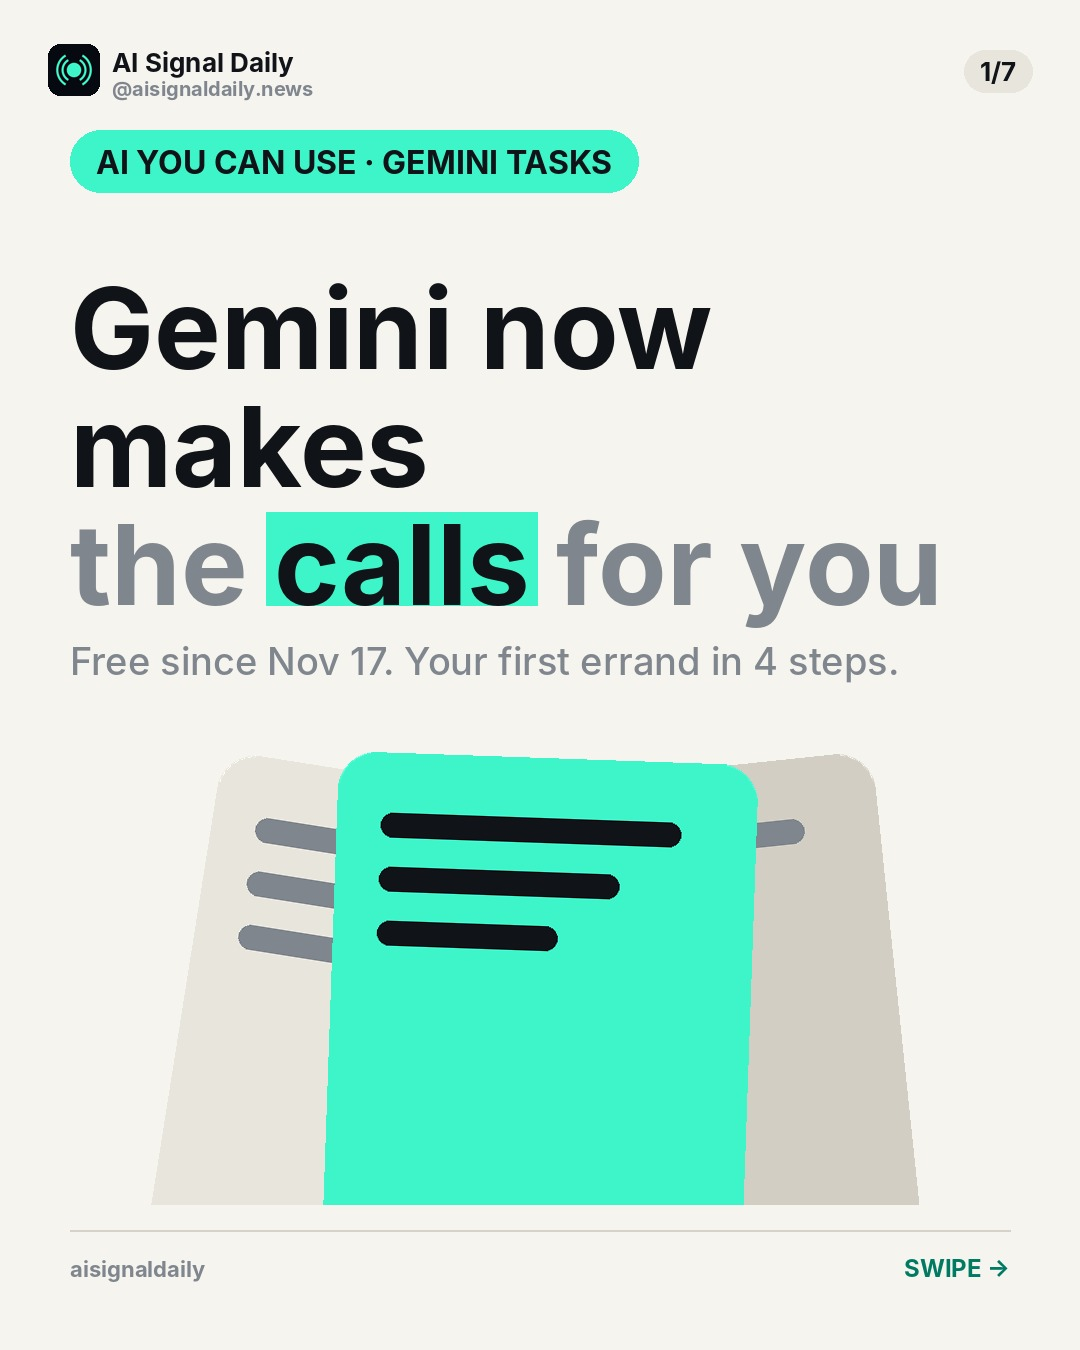
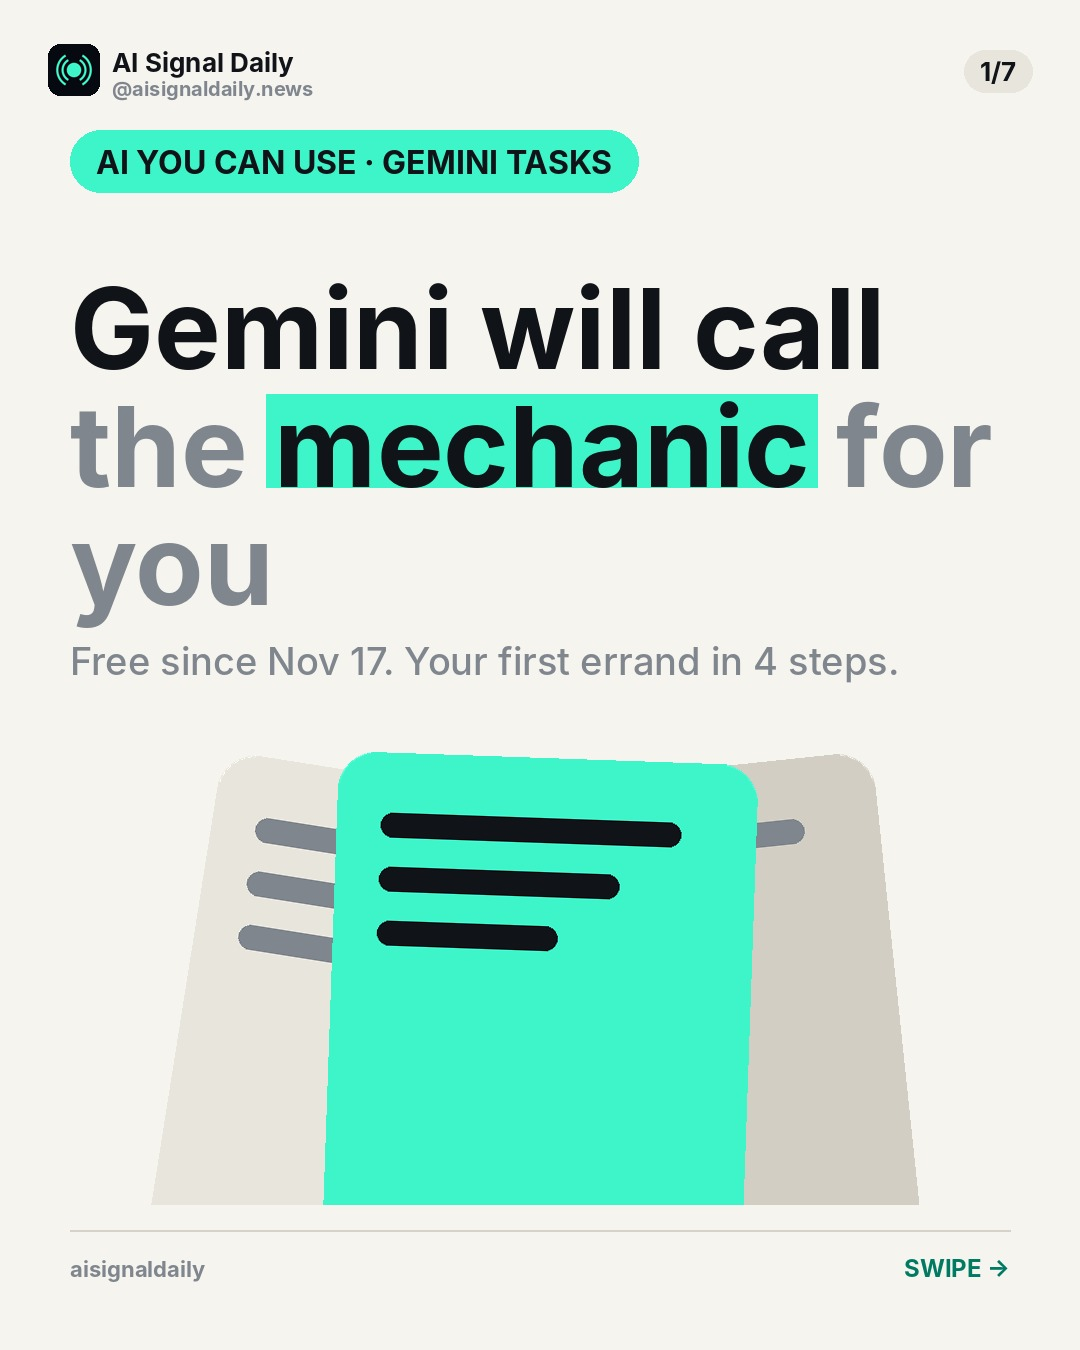
Add signal: Gemini Tasks makes calls for you (practical 2026-11-27) + review log

Changed region(s): [[0.0611, 0.2178, 0.9167, 0.4667]]

diff --git a/index.html b/index.html
@@ -111,6 +111,12 @@ footer{margin-top:40px;text-align:center;font-size:13px;color:var(--muted)}
 {
   // Newest first. Each entry = one post. Claude adds new entries at the top.
   const signals = [
+    {date:'Nov 27, 2026', tag:'How-to', title:'Gemini will call the mechanic for you. Free',
+     note:"Gemini Tasks: open the Gemini app (Android, iOS or web), flip the home-screen toggle from Chat to Task, and say the job in plain English. Try: \"Call the 2 nearest auto shops and book an oil change Friday morning.\" It checks with you before key steps like paying. Free since Nov 17, 2026 in the US, Japan, Korea, Canada, Australia and India. Calls, Google Pay checkout, texting and forwarding emails to gemini@google.com start in the US. On calls it says it's an AI; some sites make you click the last button; connect only the apps you need and set a spending cap.",
+     links:[
+       {label:'Read Google\'s announcement + how to try it', sub:'Google blog, Nov 17, 2026', url:'https://blog.google/innovation-and-ai/products/gemini-app/tasks-in-gemini-free-new-features/'},
+       {label:'Open Gemini', sub:'gemini.google.com', url:'https://gemini.google.com/'}
+     ]},
     {date:'Nov 27, 2026', tag:'AI you can use', title:'Your phone is a free live interpreter in 70+ languages',
      note:"Google Translate's Live translate: open the app (Android or iPhone), tap Live translate at the bottom, pick your two languages and Conversation mode, then take turns talking. It says the translation out loud and shows a transcript in both languages. Launched in the US, India and Mexico (Aug 2025); update the app first. Offline live translate is Pixel 9/10/11 only. Fine for family dinners and trips, not for legal or medical conversations.",
      links:[

diff --git a/tools/REVIEW_LOG.md b/tools/REVIEW_LOG.md
@@ -13,3 +13,4 @@ One line per post: date | slot | title | hook/send/save/follow/clarity/readabili
 2026-11-26 | evening | An AI ad sold a Christmas market (Cornwall, BBC) | hook 7, send 7, save 4, follow 6, clarity 9, credibility 6, craft 8 | medium | hook chosen: reviewer alt B 'AI SOLD THIS CHRISTMAS MARKET. VISITORS FOUND 5 STALLS + BUCKETS' (was 'THE AI AD VS. THE REAL CHRISTMAS MARKET') | fixes: beat 5 -> 'SPOT A FAKE EVENT AD: 3 CHECKS' (save), every AI still labelled 'ILLUSTRATION' in the sub line, 'pitch' -> 'stall spot', follow line drops unverified '7x'; reviewer could not open BBC, maker verified every claim against the BBC text (sandbox fetch) | 1 round (time) | voice: no | hashtags: 0 | clip: no (free motion: slow-zoom stills + wipe) | credits ~6.5. Maker note: posted 61 min after the late practical rescue (6:44 PM); no series number (not a numbered series).
 2026-11-27 | morning (Free swaps #1, paper, 10 slides) | Your 5 apps: $558 a year. Free versions: $0 | hook 8, send 8, save 9, follow 8, clarity 7, credibility 7, craft 7 | medium-high | hook chosen: reviewer alt A '$558 a year' (was '5 apps cost you $46 a month') | fixes: slide 9 recap prices now green (carousel.py bill "free":true), slide 9 note adds 'self-hosting isn't $0'; kept Cal.com SMS line (Free column on cal.com/pricing lists 'Email & SMS notifications', checked by maker); cover hero still overlaps footer (titlecard template, not fixed) | theme: paper | layout: plain | mix: no | named: no | hook: proof | send-target: friend who pays for every app | hashtags: 3 | voice: n/a | credits: 0 (code-made cover instead of Higgsfield, to keep paper theme unmixed) | NOTE: Buffer parsed "#1" and "#2" in the caption as hashtags (5 tags total). Future captions: write "Free swaps No. 1" or "Free swaps 1" in captions, keep "#1" only on slides.
 2026-11-27 | midday (AI you can use, Reel 16.7 s) | Google Translate Live translate: a free interpreter in 70+ languages | R1: hook 6, send 7, save 6, follow 6, clarity 8, credibility 7, craft 5 | medium-low | R2: hook 7, send 7, save 6, follow 6, clarity 8, credibility 7, craft 7 | medium-low to medium | hook chosen: reviewer alt A ('Your phone is now a free live interpreter' in caption line 1; on screen 'A FREE INTERPRETER IN 70+ LANGUAGES') | fixes: removed headline cards on voiced beats 2-4 (captions only), 'Made with AI' now in a dark pill (reel.py), end card gets a follow line ('Next: Sat 7:45 PM, a free AI tool we verified', reel.py end 'sub') | not fixed: beat-1 hook card sits above the captions (kept as the allowed 'big number' card; reviewer flagged it as stacking), no real UI proof (no mock of Google's app), beat 4 reuses beat-1 art, 16.7 s vs 10-12 s default | voice: yes | captions: yes | sound: foley+bed (sound.py, 0 cr) | hashtags: 3 | clip: no (3 slow-zoom stills) | hook: myth/proof-less benefit | send-target: friend whose in-laws speak another language | person-named: no | mascot: yes | credits ~2.9. Maker note: weak news day (no verifiable 'AI did something wild' found fast); fell back to a practical feature that is from Aug 2025, not new.
+2026-11-27 | practical (AI you can use, paper, 7 slides) | Gemini will call the mechanic for you. Free (Gemini Tasks) | hook 7, send 7, save 7, follow 7, clarity 8, credibility 6, craft 7 | medium | hook chosen: reviewer alt 1 idea ('Gemini will call the auto shop for you. Free'), set as 'mechanic' so one word takes the highlight (was 'Gemini now makes the calls for you') | fixes: slide 2 stray asterisk removed, slide 5/6 + caption now list the same US-first features (calls, Google Pay, texting, email forwarding), slide 5 teaser 'Most people stop here' -> 'Before you try it'; kept 'dealerships', 'says it's an AI', 'spending cap', 'last button' (all verified by maker in Google's own blog text, sandbox fetch; reviewer could not open blog.google); kept the caption question (STYLE caption rule) | 1 round (no score below 6) | theme: paper | layout: plain | mix: yes (Try-this line, who-can-use-it line, tool+verb+result cover) | named: no | hook: proof/news | send-target: friend who hates making phone calls | hashtags: 2 | credits: 0 (code cover + official Google screenshot) | AI visuals: none
